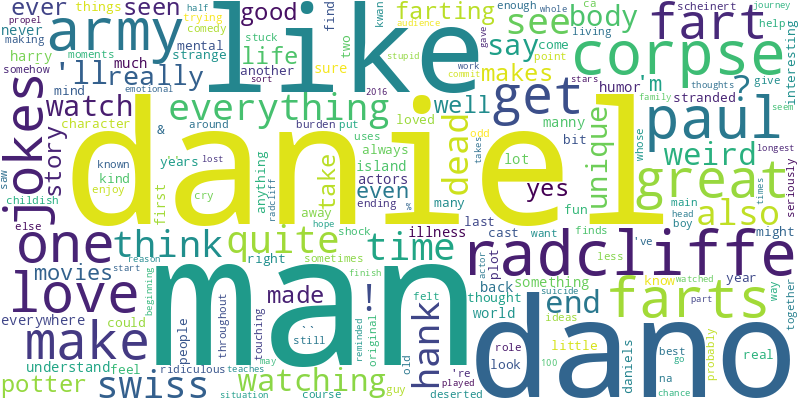
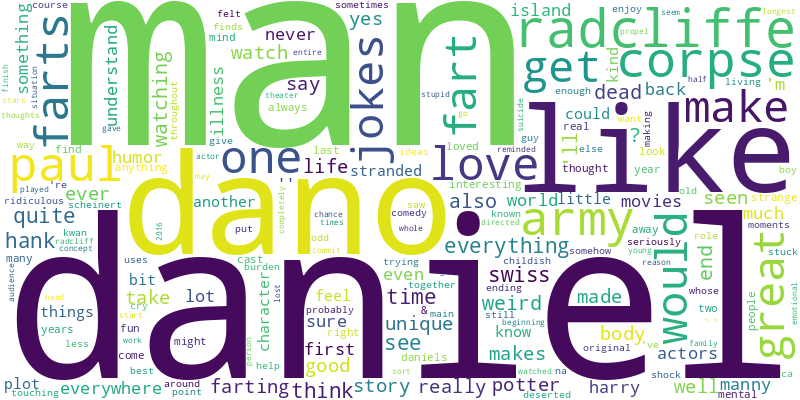
readme finalised

diff --git a/python/movies/text_analysis.py b/python/movies/text_analysis.py
@@ -42,7 +42,7 @@ def sentiment_analysis(documents):
         print(review_text_tokens)
 
         english_stopwords = stopwords.words('english')
-        newStopWords = ['movie','film',"'", "'s", '(', ')', '.', "n't", ',', 'would']
+        newStopWords = ['movie','film',"'", "'s", '(', ')', '.', "n't", ',', ':', '!', '?' 'would']
         english_stopwords.extend(newStopWords)
 
 

diff --git a/README.md b/README.md
@@ -1,0 +1,46 @@
+# Welcome to Senti-movie!
+
+This basic application pulls data on **movie reviews** from the imdb website, and analyses them!
+This project was developed as an educational project. The objectives was two-fold:
+
+- Take a first dive into programmation with python and Django.
+- Explore Natural Language Processing.
+
+# How does it work?
+
+## First step: Scraping
+
+When the user enters the name of a movie, the Express app will connect to the imdb API and get the first page of reviews, ordered by date (most recent). The review text and review score are saved in a MongoDB collection.
+
+## Second step: Analysis
+
+The platform then goes to a second page with the results. The two fields will be analysed:
+
+- The review score: a distribution of the different rates, and a percentage of positive (>7), neutral (4<>6) and negative (<3) scores.
+- The analysis of the comments: A sentiment analysis is made on the review texts, and also display a percentage of positive, negative and neutral comments. Additionally, a word cloud is presented to showcase the words that have been the most used by the reviewers.
+
+# How to run this project
+
+## Launch the servers
+
+Unfortunately, Senti-Movie isn't hosted on an online server (yet!). So it has to be run locally.
+Two servers have to be launched: Django for the platform, and Express for the scraping.
+
+## Use the app
+
+Just type the name of the movie of your choice in the text field!
+
+# Self-reflection and future improvements
+
+## Quick fixes
+
+1. The first step would be to host the app on heroku
+2. I would like to scrap more data: not just only the first page but maybe all the comments?
+3. Change the design! At the moment, it is quite dull. But frontend wasn't definitively the priority for this project.
+4. add the classical protections (against XSS, etc)
+5. Fix all the current issues on the Django server
+
+## More ambitious
+
+6. The sentiment analysis can definitively be improved. At the moment, the score and reviews percentages don't match. The polarity score is potentially not distributed uniformally. (1/3 - 1/3 - 1/3) like it can be the case for the ratings. And a more careful pre-proessing has to be done with the text (remove punctuation,, remove the name of the movie itself from the wordcloud etc). But this would require a deeper understanding of how NLP work, and an ability to develop my own models for analysis. Hopefully in the future!
+7. Improve the search on imdb. At the moment, the text typed by the user is simply put in the search bar, and the app scrapes the data from the first link that appears, but with typos, sequels or unknown movies, it might not work.
